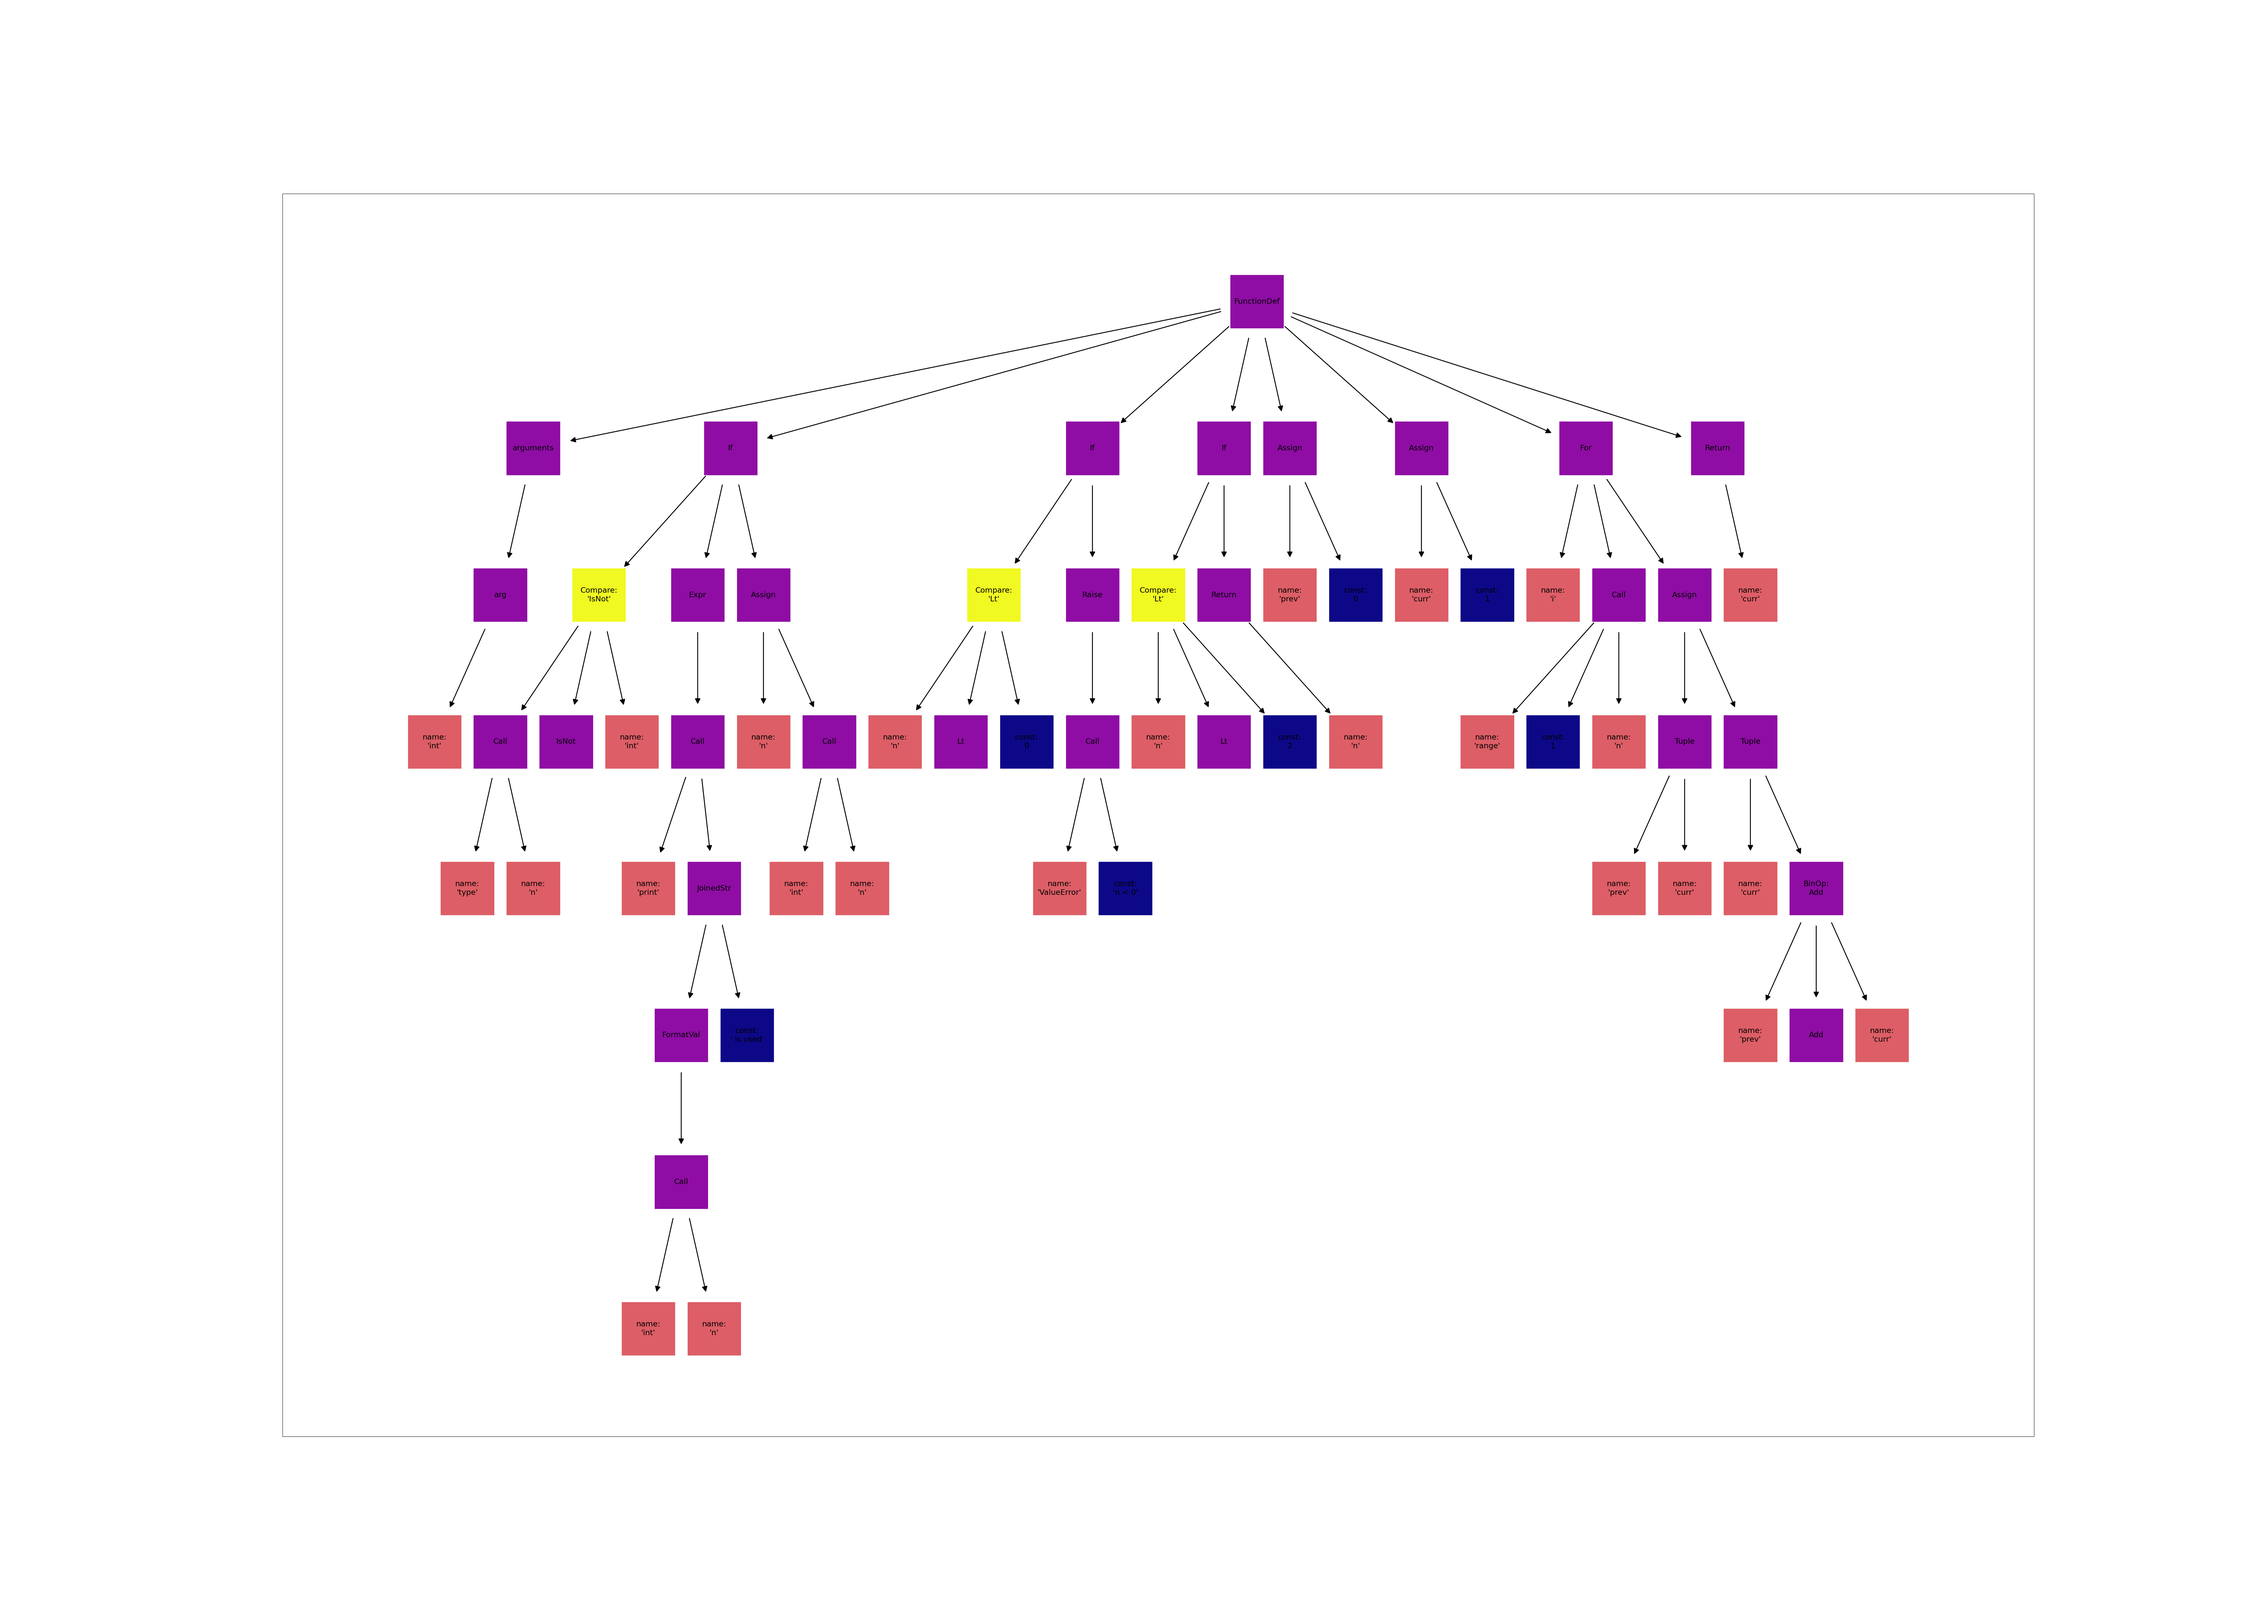
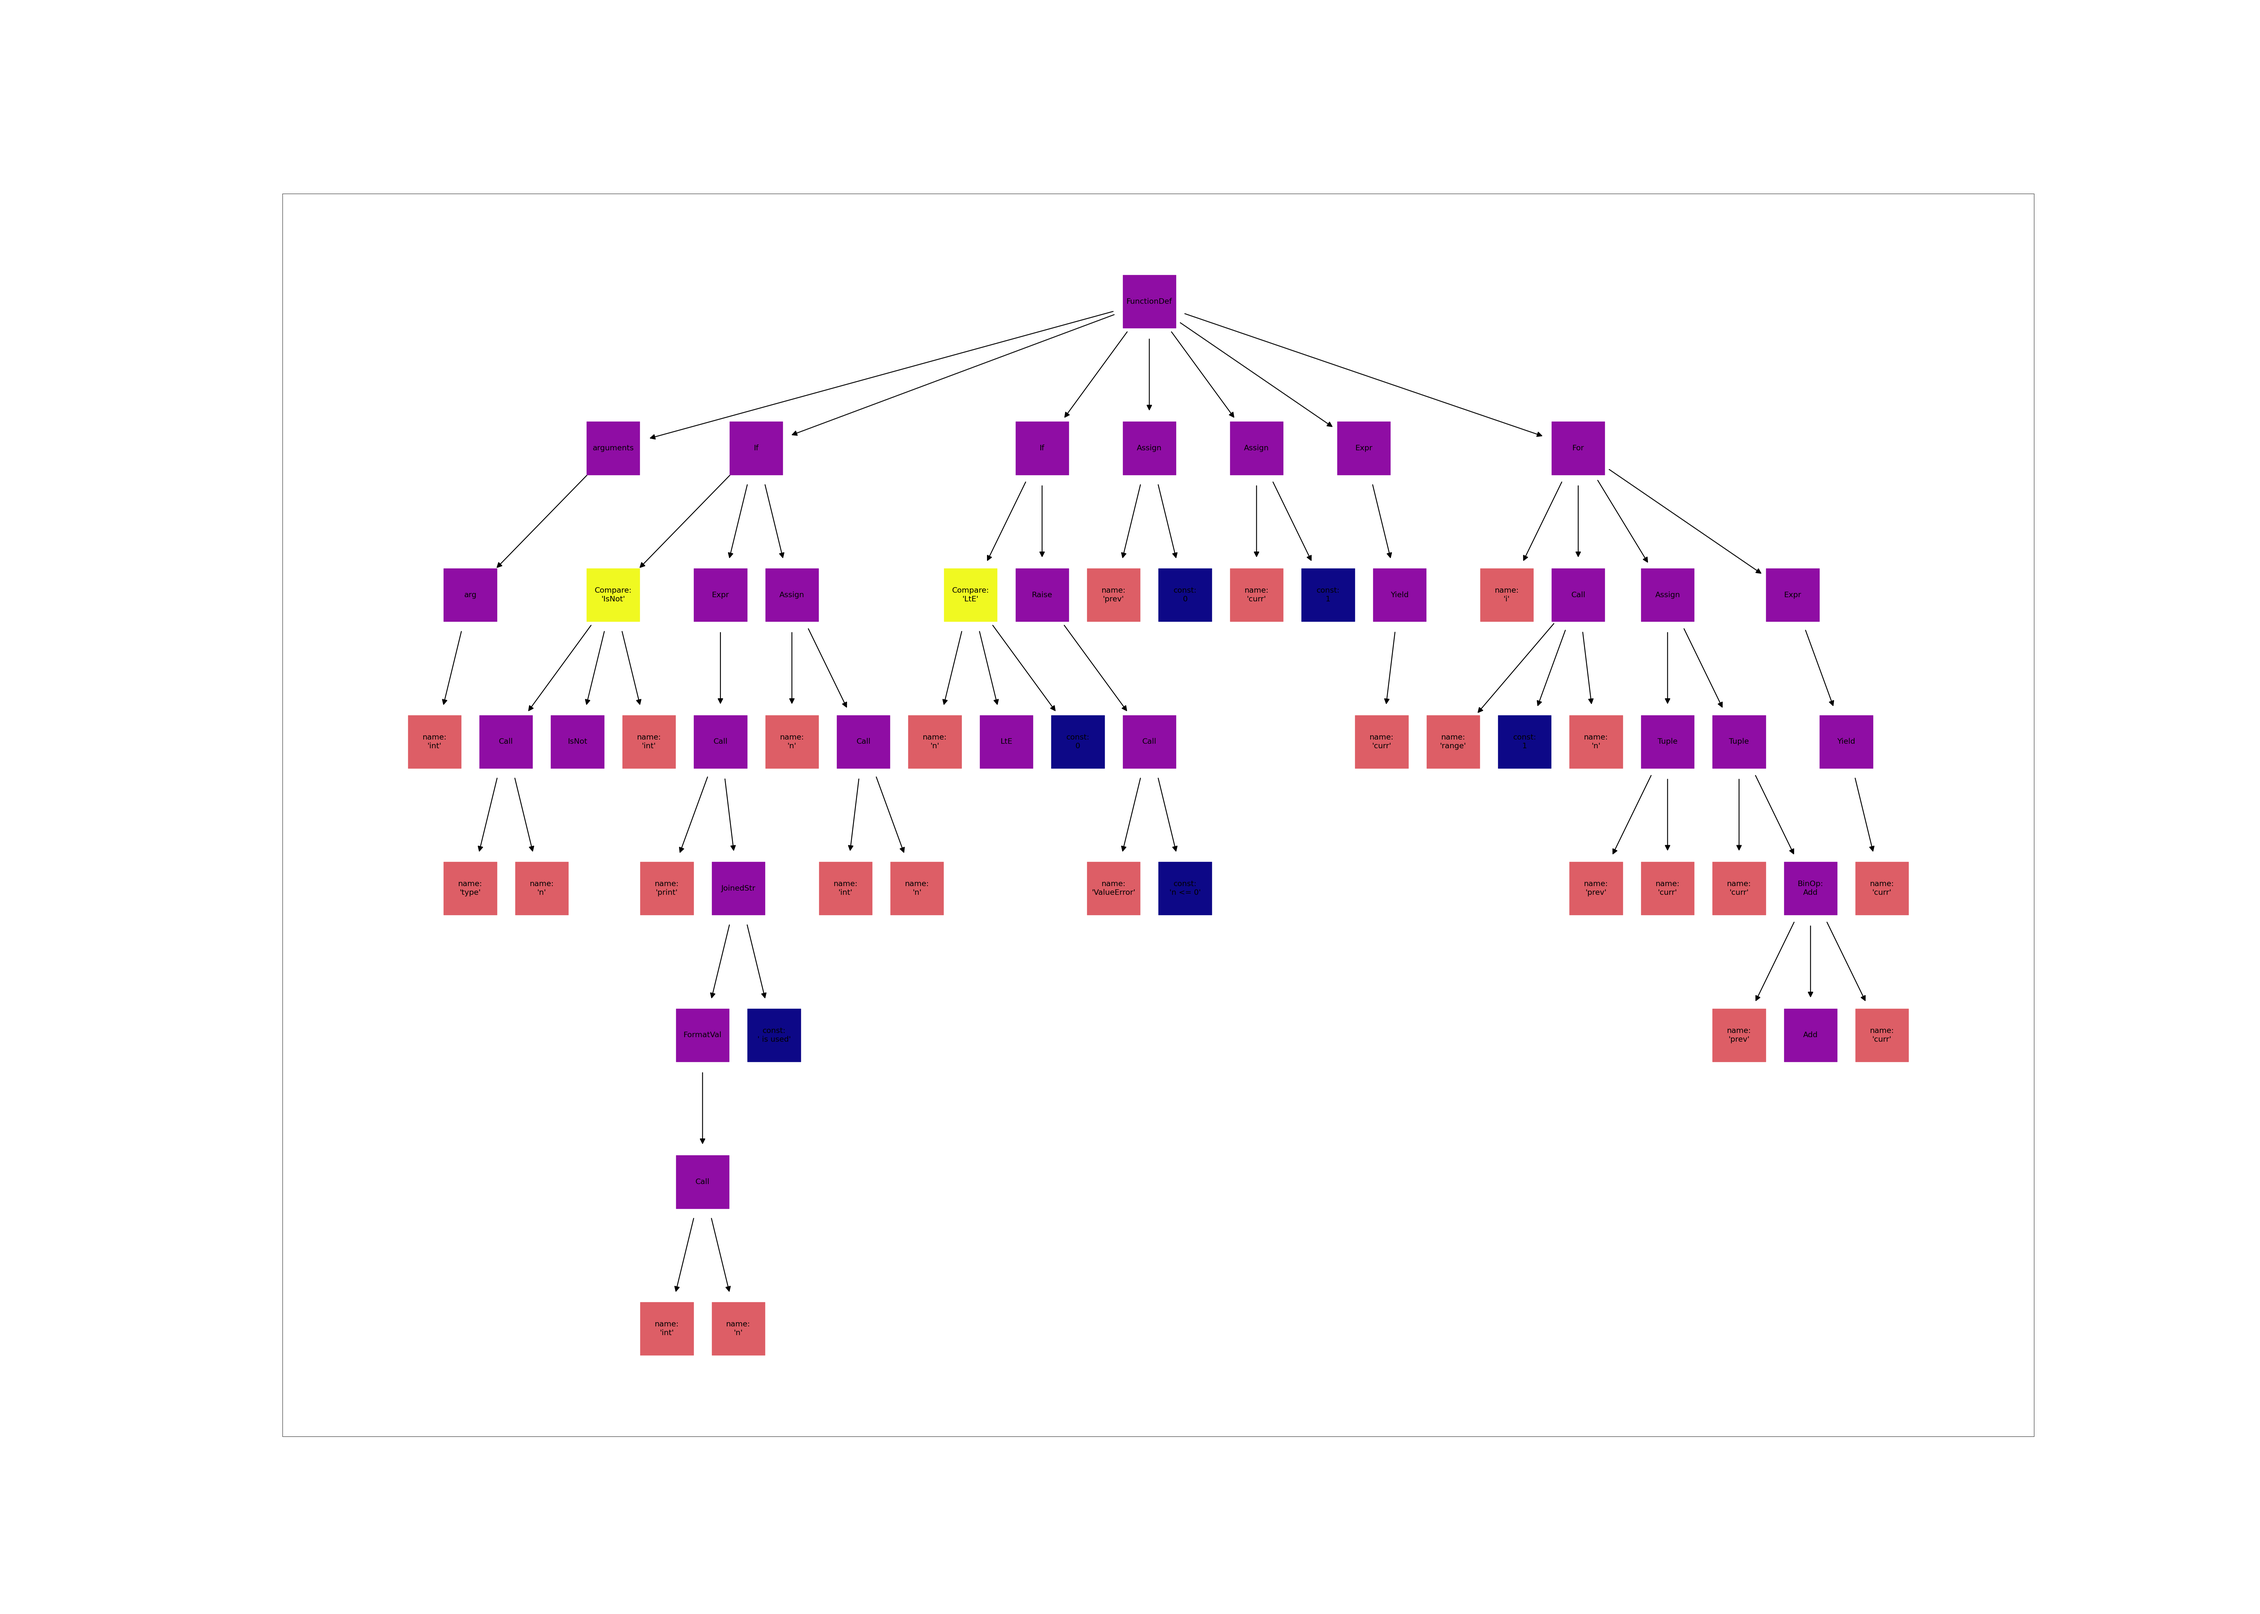
easy done

diff --git a/hw02/easy.py b/hw02/easy.py
@@ -1,0 +1,56 @@
+"""
+Извините, но я не догадался,
+как красивее на питоне сделать это задание в стиле ФП.
+Надеюсь, map() и max() это не читерство.
+
+"""
+path = 'artifacts/easy/'
+file_name = 'table01.tex'
+hardcode_table = [
+    ['1345', '2', '3444'],
+    ['4', '5', '635534'],
+    ['7', '8', '9']
+]
+
+
+def max_cell_len(table: list[list]) -> int:
+    def max_len_in_line(line: list) -> int:
+        return len(max(map(str, line), key=len))
+    return max(map(max_len_in_line, table))
+
+
+def f_elem(sz: int):
+    def inner(elem):
+        return f'{elem: ^{sz}}'
+    return inner
+
+
+def wrap_line(cell_len: int):
+    def inner(line: list) -> str:
+        return '&'.join(
+            map(f_elem(cell_len), line)
+        ) + r"\\ \hline" + '\n'
+    return inner
+
+
+def make_tex_table(table: list[list], align: str = 'c') -> str:
+    """
+
+    :param table:
+    :param align: str
+        Параметр выравнивания.
+        Возможные значения: 'l', 'r', 'c'.
+    :return: str
+        LaTex таблица
+    """
+    return ''.join((
+        '\\begin{table}\n\\begin{tabular}{|',
+        (align + '|') * len(table[0]),
+        '}\n\\hline\n',
+        ''.join(map(wrap_line(max_cell_len(table)+2), table)),
+        '\\end{tabular}\n\\end{table}\n'
+    ))
+
+
+with open(path + file_name, 'w') as tex_file:
+    tex_file.write(make_tex_table(hardcode_table))

diff --git a/hw01/easy.py b/hw01/easy.py
@@ -2,12 +2,12 @@ def fibonacci(n: int):
     if type(n) is not int:
         print(f'{int(n)} is used')
         n = int(n)
-    if n < 0:
-        raise ValueError('n < 0')
-    if n < 2:
-        return n
+    if n <= 0:
+        raise ValueError('n <= 0')
     prev = 0
     curr = 1
+    yield curr
     for i in range(1, n):
         prev, curr = curr, prev+curr
-    return curr
+        yield curr
+

diff --git a/hw02/artifacts/easy/table01.tex b/hw02/artifacts/easy/table01.tex
@@ -1,0 +1,8 @@
+\begin{table}
+\begin{tabular}{|c|c|c|}
+\hline
+  1345  &   2    &  3444  \\ \hline
+   4    &   5    & 635534 \\ \hline
+   7    &   8    &   9    \\ \hline
+\end{tabular}
+\end{table}
